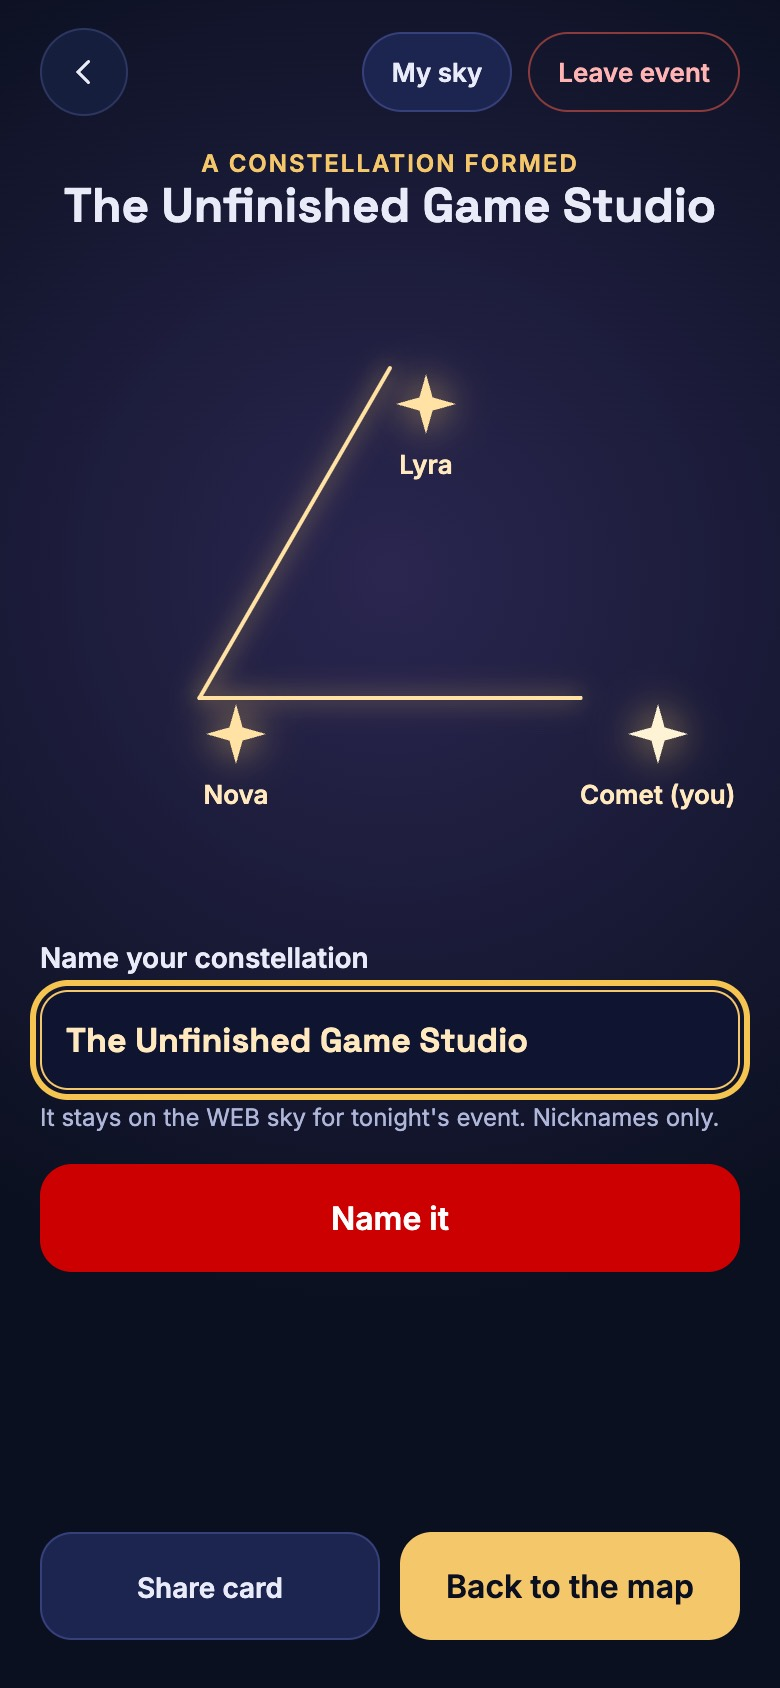
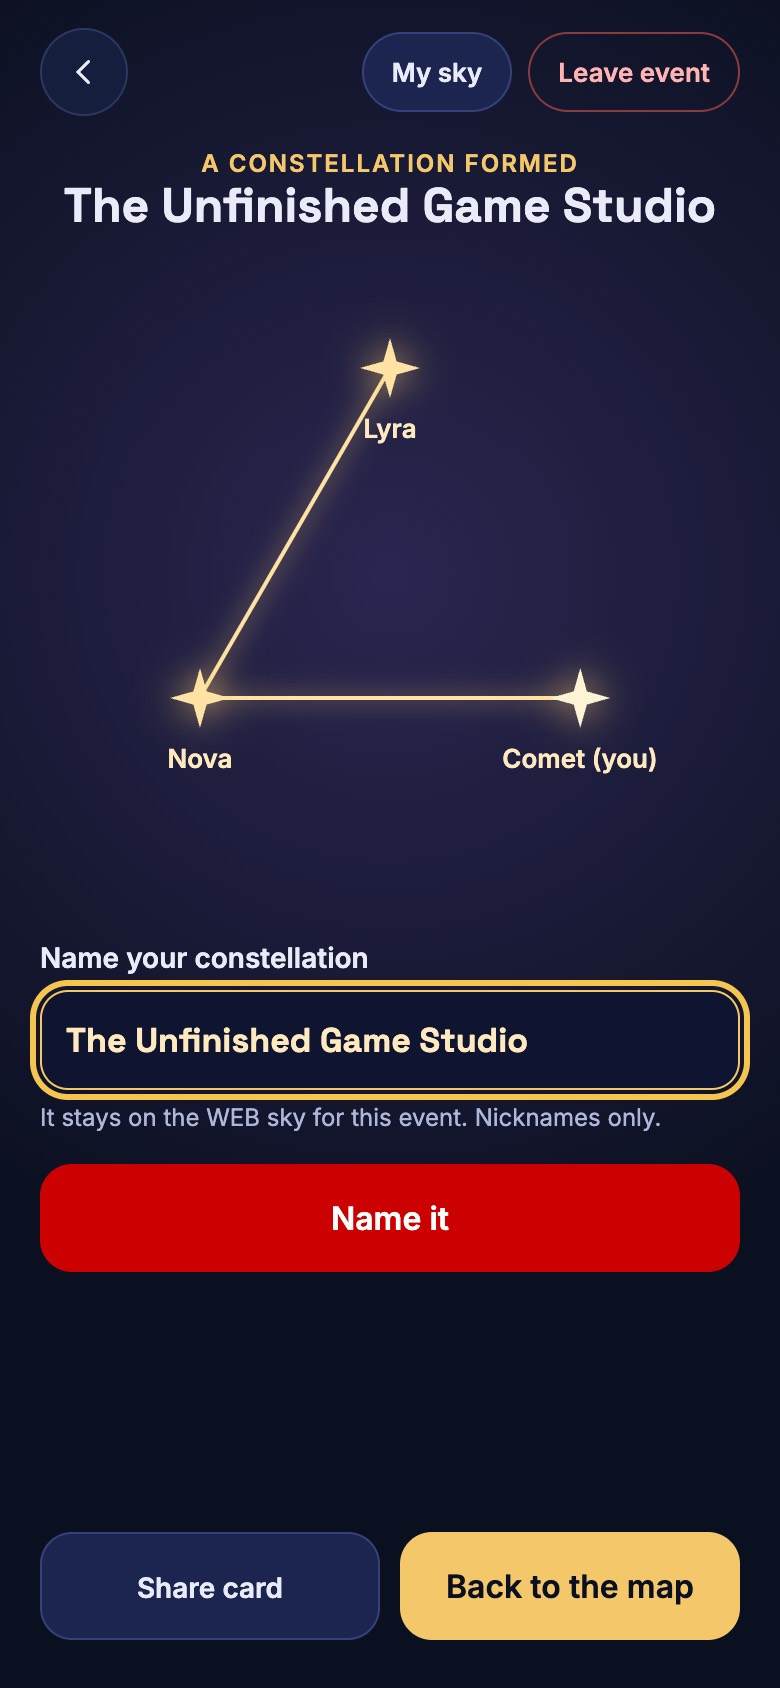
Constellation lines meet their stars exactly; 'anytime' wording and All day events; headline: free food, live events, networking

diff --git a/src/screens/AtEvent.jsx b/src/screens/AtEvent.jsx
@@ -556,18 +556,21 @@ function Formed({ live, me, session, myGroup, named, setView, onLeave }) {
           <h1 className="cu-h">{name.trim() || 'Unnamed, for now'}</h1>
         </div>
         <div style={{ position: 'relative', width: '100%', aspectRatio: '350 / 320' }} role="img" aria-label={`Constellation of ${members.map((m) => m.nickname).join(', ')}`}>
-          <svg viewBox="0 0 350 320" width="100%" height="100%" aria-hidden="true" style={{ position: 'absolute', inset: 0 }}>
+          <svg viewBox="0 0 350 320" preserveAspectRatio="none" width="100%" height="100%" aria-hidden="true" style={{ position: 'absolute', inset: 0 }}>
             <g stroke="#FFE2A3" strokeWidth="2" strokeLinecap="round" style={{ filter: 'drop-shadow(0 0 6px #F5C76B)' }}>
               {live.connections.filter((c) => c.a_confirmed && c.b_confirmed && myGroup.includes(c.a) && myGroup.includes(c.b)).map((c, i) => {
                 const A = pts.find((q) => q.p.id === c.a), B = pts.find((q) => q.p.id === c.b)
-                return A && B && <line key={c.id} className="cu-draw" style={{ animationDelay: `${0.5 + i * 0.5}s` }} x1={A.x} y1={A.y} x2={B.x} y2={B.y} />
+                return A && B && <line key={c.id} className="cu-draw" style={{ animationDelay: `${0.5 + i * 0.5}s` }} x1={A.x} y1={A.y} x2={B.x} y2={B.y} vectorEffect="non-scaling-stroke" />
               })}
             </g>
           </svg>
           {pts.map(({ p, x, y }, i) => (
-            <div key={p.id} className="cu-popin" style={{ position: 'absolute', left: `${(x / 350) * 100}%`, top: `${(y / 320) * 100}%`, transform: 'translate(-50%, -18px)', display: 'flex', flexDirection: 'column', alignItems: 'center', gap: 4, animationDelay: `${i * 0.2}s` }}>
+            // outer div centres the star on its point; the pop-in animation lives on the inner div so it can't undo that
+            <div key={p.id} style={{ position: 'absolute', left: `${(x / 350) * 100}%`, top: `${(y / 320) * 100}%`, transform: 'translate(-50%, -18px)' }}>
+            <div className="cu-popin" style={{ display: 'flex', flexDirection: 'column', alignItems: 'center', gap: 4, animationDelay: `${i * 0.2}s` }}>
               <svg width="36" height="36" viewBox="0 0 24 24" aria-hidden="true" style={{ filter: 'drop-shadow(0 0 10px #F5C76B)' }}><path d={SPARK} fill={p.id === me.id ? '#FFF3D6' : '#FFE2A3'} /></svg>
               <span style={{ font: '600 13px Inter, sans-serif', color: '#FFE9BE' }}>{p.id === me.id ? `${p.nickname} (you)` : p.nickname}</span>
+            </div>
             </div>
           ))}
         </div>
@@ -575,7 +578,7 @@ function Formed({ live, me, session, myGroup, named, setView, onLeave }) {
           <label htmlFor="cname">Name your constellation</label>
           <input id="cname" required maxLength={40} value={name} onChange={(e) => { setName(e.target.value); setSaved(false) }} placeholder={`Something only you ${members.length} get`}
             style={{ width: '100%', border: '1px solid #F5C76B', color: '#FFE9BE', font: "600 17px 'Space Grotesk', sans-serif" }} disabled={!!named} />
-          <p className="cu-small" style={{ marginTop: 6 }}>It stays on the {live.event?.building_code} sky for tonight's event. Nicknames only.</p>
+          <p className="cu-small" style={{ marginTop: 6 }}>It stays on the {live.event?.building_code} sky for this event. Nicknames only.</p>
         </div>
         {!named && !saved && <button className="cu-primary" disabled={!name.trim()}>Name it</button>}
         {error && <p role="alert" className="cu-err">{error}</p>}
@@ -620,7 +623,7 @@ function LeftScreen({ eventId, title, expired }) {
         <p className="cu-sub">{expired ? 'Your check-in ended or you left the event.' : 'Your star is gone from this sky. Your connections and constellations stay.'}</p>
         <a className="cu-goldbtn" href="#/" style={{ maxWidth: 320 }}>Back to the map</a>
         <a className="cu-secondary" href={`#/checkin/${eventId}`} style={{ maxWidth: 320 }}>Check in again</a>
-        {!expired && <a href={`#/feedback/${eventId}`} style={{ color: '#F5C76B', minHeight: 44, display: 'inline-flex', alignItems: 'center' }}>Rate tonight</a>}
+        {!expired && <a href={`#/feedback/${eventId}`} style={{ color: '#F5C76B', minHeight: 44, display: 'inline-flex', alignItems: 'center' }}>Rate this event</a>}
       </div>
     </main>
   )

diff --git a/src/components/social/Sky.jsx b/src/components/social/Sky.jsx
@@ -42,14 +42,15 @@ export default function Sky({ people, connections, constellations = [], meId, w 
   return (
     <div style={{ position: 'relative', width: '100%', aspectRatio: `${w} / ${h}` }}
       role="img" aria-label={`${people.length} people in this sky, ${lines.length} connections, ${groups.filter((g) => g.length > 1).length} groups`}>
-      <svg viewBox={`0 0 ${w} ${h}`} width="100%" height="100%" aria-hidden="true" style={{ position: 'absolute', inset: 0 }}>
+      {/* preserveAspectRatio="none": SVG units map to the same % as the HTML stars below, so line ends always land on stars */}
+      <svg viewBox={`0 0 ${w} ${h}`} preserveAspectRatio="none" width="100%" height="100%" aria-hidden="true" style={{ position: 'absolute', inset: 0 }}>
         <defs><filter id="cu-soft" x="-50%" y="-50%" width="200%" height="200%"><feGaussianBlur stdDeviation="8" /></filter></defs>
         <circle cx={w / 2} cy={h / 2} r={R1} fill="none" stroke="#2C3660" strokeDasharray="3 6" />
         <circle cx={w / 2} cy={h / 2} r={R2} fill="none" stroke="#2C3660" strokeDasharray="3 6" />
         {lines.map((c) => {
           const mine = kind[c.a] === 'mine'
           return <line key={c.id} className="cu-draw" x1={pos[c.a].x} y1={pos[c.a].y} x2={pos[c.b].x} y2={pos[c.b].y}
-            stroke={mine ? '#FFE2A3' : '#9DB8FF'} strokeOpacity={mine ? 1 : 0.85} strokeWidth={(mine ? 2 : 1.4) * scale} strokeLinecap="round"
+            stroke={mine ? '#FFE2A3' : '#9DB8FF'} strokeOpacity={mine ? 1 : 0.85} strokeWidth={(mine ? 2 : 1.4) * scale} strokeLinecap="round" vectorEffect="non-scaling-stroke"
             style={mine ? { filter: 'drop-shadow(0 0 6px #F5C76B)' } : undefined} />
         })}
         {/* the event planet */}
@@ -75,11 +76,12 @@ export default function Sky({ people, connections, constellations = [], meId, w 
             <span style={{ font: `${me ? 700 : 500} ${big ? 17 : 11}px Inter, sans-serif`, color: me ? '#FFE2A3' : '#C9D0EC', whiteSpace: 'nowrap' }}>{label}</span>
           </>
         )
-        const style = { position: 'absolute', left: pct(at.x, w), top: pct(at.y, h), transform: 'translate(-50%, -22px)',
+        // lift by exactly half the star box, so the star's centre sits on its line ends
+        const style = { position: 'absolute', left: pct(at.x, w), top: pct(at.y, h), transform: `translate(-50%, -${Math.max(z, 30) / 2}px)`,
           display: 'flex', flexDirection: 'column', alignItems: 'center', gap: 2 }
         return onSelect
           ? <button key={p.id} onClick={() => onSelect(p)} aria-label={`${label}. Options`}
-              style={{ ...style, minWidth: 44, minHeight: 44, padding: 0, background: 'none', border: 0, borderRadius: 12 }}>{body}</button>
+              style={{ ...style, minWidth: 44, minHeight: 44, padding: 0, background: 'none', border: 0, borderRadius: 12, justifyContent: 'flex-start' }}>{body}</button>
           : <div key={p.id} style={style}>{body}</div>
       })}
       {named.map((c) => (

diff --git a/src/screens/Landing.jsx b/src/screens/Landing.jsx
@@ -14,7 +14,7 @@ const SCENES = [
   { shot: 'match', who: 'Maya · at the event', t: '0:30', title: 'Find your half',
     body: 'Check in with a nickname and get half of a Utah word pair. Someone here holds the other half. Both phones show the same color, so you can spot each other.' },
   { shot: 'constellation', who: 'Jordan · club officer', t: '0:45', title: 'Three lines, one constellation',
-    body: 'When you both say yes, a line connects your stars. Three of you form a constellation you name together, and it stays in My sky after tonight.' },
+    body: 'When you both say yes, a line connects your stars. Three of you form a constellation you name together, and it stays in My sky after the event.' },
 ]
 const GALLERY = [['map', 'Campus map'], ['event', 'Event details'], ['checkin', 'Check in'], ['half', 'Find your half'], ['code', 'Your star code'],
   ['match', 'Match found'], ['prompt', 'Say hi, both confirm'], ['constellation', 'Constellation formed'], ['mysky', 'My sky'], ['legend', 'Map legend']]
@@ -78,8 +78,8 @@ export default function Landing() {
       <header className="lp-hero">
         <div className="lp-hero-copy">
           <p className="lp-brand"><Icon name="star" size={18} /> Constellation U · University of Utah</p>
-          <h1>Free food, live music and <span className="lp-glow">your people</span>. One campus map.</h1>
-          <p className="lp-lead">See everything happening at the U tonight, walk there, and meet someone new when you arrive. No group chats to join. No followers to count.</p>
+          <h1>Free food, live events, networking and <span className="lp-glow">your people</span>. One campus map.</h1>
+          <p className="lp-lead">See what’s happening at the U right now, later today and all week, from all-day fairs to late-night jams. Walk there, and meet someone new when you arrive. No group chats to join. No followers to count.</p>
           <CTA />
           <p className="lp-fine">Sign in with Google. Other students only ever see the nickname you pick.</p>
         </div>
@@ -197,7 +197,7 @@ export default function Landing() {
       </section>
 
       <footer className="lp-foot lp-reveal">
-        <h2>Tonight’s sky is waiting.</h2>
+        <h2>Your sky is waiting.</h2>
         <CTA label="Get started with Google" />
         <p className="lp-fine">Made at Crimson Hacks 2026 · Redo × UtahSec · Map data © OpenStreetMap contributors</p>
       </footer>

diff --git a/index.html b/index.html
@@ -6,7 +6,7 @@
   <meta name="theme-color" content="#0B1020" />
   <title>Constellation U</title>
   <meta name="description" content="Every University of Utah event on one live campus map, then meet people when you get there. A machine-learning For you ranking puts your best events first, Claude AI turns club posts into events, fuzzy interest matching pairs you with your icebreaker half, and step-free walking routes get you there." />
-  <meta property="og:title" content="Constellation U: free food, live music and your people" />
+  <meta property="og:title" content="Constellation U: free food, live events, networking and your people" />
   <meta property="og:description" content="One campus map for the U. A For you ranking model, AI-read club events, interest matching, in-app walking routes and constellations of people you meet. Nicknames only." />
   <meta property="og:image" content="https://constellationu.vercel.app/landing/map.jpg" />
   <meta property="og:url" content="https://constellationu.vercel.app/" />

diff --git a/src/screens/Projector.jsx b/src/screens/Projector.jsx
@@ -55,7 +55,7 @@ export default function Projector({ param: eventId }) {
         <div>
           <div style={{ display: 'flex', justifyContent: 'space-between', alignItems: 'baseline', gap: 12, marginBottom: 12 }} aria-live="polite">
             <p style={{ font: "700 28px 'Space Grotesk', sans-serif", margin: 0 }}>{reached ? 'The room lit up!' : `${links} / ${goal} links`}</p>
-            <p style={{ font: '600 20px Inter, sans-serif', color: '#FFE2A3', margin: 0 }}>{reached ? `${links} links tonight` : `${goal - links} more to light up the room`}</p>
+            <p style={{ font: '600 20px Inter, sans-serif', color: '#FFE2A3', margin: 0 }}>{reached ? `${links} links in this room` : `${goal - links} more to light up the room`}</p>
           </div>
           <div role="progressbar" aria-valuemin={0} aria-valuemax={goal} aria-valuenow={Math.min(links, goal)} aria-label="Room goal"
             style={{ height: 22, borderRadius: 11, background: '#1C2550', overflow: 'hidden', border: '1px solid #36407A' }}>

diff --git a/src/lib/geo.js b/src/lib/geo.js
@@ -53,6 +53,10 @@ export const fmtDistance = (m) => m < 1000 ? `${Math.round(m)} m` : `${(m / 1000
 // Card/sheet time line in the design's words: "Now · until 8:30 PM", "Tonight, 9:00 PM", else day + time.
 export function whenText(e, now = new Date()) {
   if (!e.start_at) return 'Time on the announcement'
+  // All-day events (fairs, exhibits, drives): 10+ hours or a whole calendar day.
+  const allDay = e.end_at && new Date(e.end_at) - new Date(e.start_at) >= 10 * 3600e3
+  if (allDay && isNow(e, now)) return `All day · until ${fmtTime(e.end_at)}`
+  if (allDay) return `All day · ${new Date(e.start_at).toLocaleDateString('en-US', { weekday: 'short', month: 'short', day: 'numeric', timeZone: 'America/Denver' })}`
   if (isNow(e, now)) return e.end_at ? `Now · until ${fmtTime(e.end_at)}` : 'Now'
   if (isLaterToday(e, now)) return `${new Date(e.start_at).getHours() >= 17 ? 'Tonight' : 'Today'}, ${fmtTime(e.start_at)}`
   return fmtRange(e)
